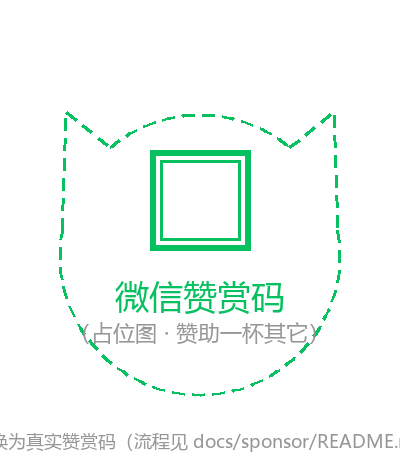
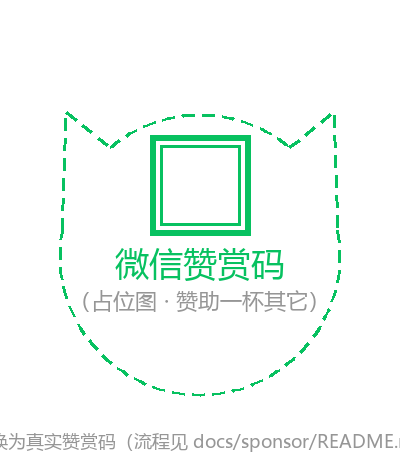
fix: 占位图两图内容行对齐（二维码中心 y185/标题 262/副标题 300，原先各自为政差 25-33px）

Changed region(s): [[0.21, 0.4766, 0.81, 0.7447], [0.36, 0.2681, 0.63, 0.3574]]

diff --git a/tool/make_sponsor_placeholders.py b/tool/make_sponsor_placeholders.py
@@ -77,7 +77,8 @@ def draw_coffee(draw, title_font, sub_font, hint_font):
     # 碟子
     dash_poly(draw, arc_pts(200, 355, 140, 20, 0, 360), light)
     # 内容
-    qr_mark(draw, 200, 175, 100, coffee)
+    # 内容行与猫头图对齐（QR 中心 185 / 标题 262 / 副标题 300，两图一致）
+    qr_mark(draw, 200, 185, 100, coffee)
     draw.text((200, 262), "微信赞赏码", font=title_font, fill=coffee, anchor="mm")
     draw.text((200, 300), "（占位图 · 赞助一杯瑞幸）", font=sub_font, fill=GRAY, anchor="mm")
     draw.text((200, 440), "请替换为真实赞赏码（流程见 docs/sponsor/README.md）",
@@ -104,9 +105,10 @@ def draw_cat(draw, title_font, sub_font, hint_font):
     dash_poly(draw, [p190, apex_l, p230], green)
     dash_poly(draw, [p310, apex_r, p350], green)
     # 内容（猫脸位置放二维码示意）
-    qr_mark(draw, 200, 200, 100, green)
-    draw.text((200, 295), "微信赞赏码", font=title_font, fill=green, anchor="mm")
-    draw.text((200, 332), "（占位图 · 赞助一杯其它）", font=sub_font, fill=GRAY, anchor="mm")
+    # 内容行与咖啡杯图对齐（QR 中心 185 / 标题 262 / 副标题 300，两图一致）
+    qr_mark(draw, 200, 185, 100, green)
+    draw.text((200, 262), "微信赞赏码", font=title_font, fill=green, anchor="mm")
+    draw.text((200, 300), "（占位图 · 赞助一杯其它）", font=sub_font, fill=GRAY, anchor="mm")
     draw.text((200, 440), "请替换为真实赞赏码（流程见 docs/sponsor/README.md）",
               font=hint_font, fill=GRAY, anchor="mm")
 
